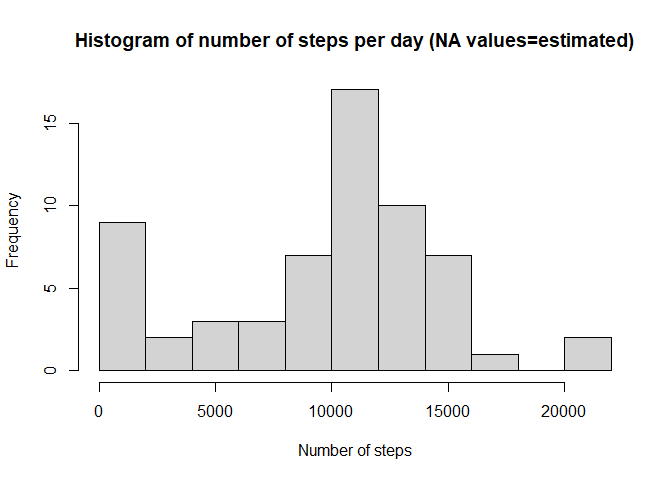
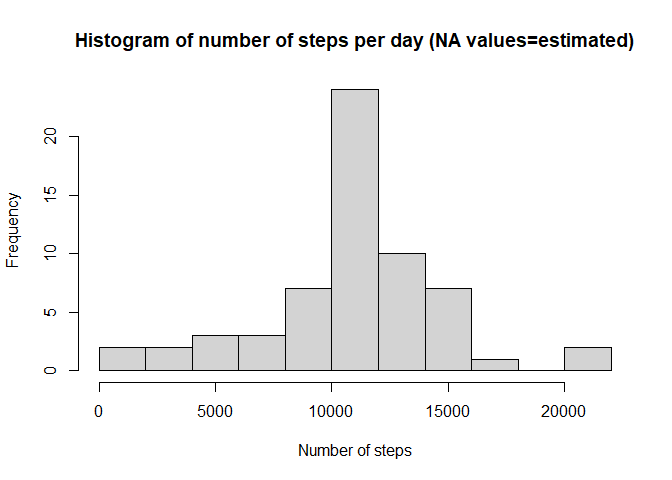
Final commit

diff --git a/PA1_template.html b/PA1_template.html
@@ -423,7 +423,7 @@ summary {
 </div>
 <div id="imputing-missing-values" class="section level2">
 <h2>Imputing missing values</h2>
-<p>Note that there are a number of days/intervals where there are missing values (coded as <strong>NA</strong>. The presence of missing days may introduce bias into some calculations or summaries of the data. The following chunks of code provide the answer to the following instructions:</p>
+<p>Note that there are a number of days/intervals where there are missing values (coded as <strong>NA</strong>). The presence of missing days may introduce bias into some calculations or summaries of the data. The following chunks of code provide the answer to the following instructions:</p>
 <ol style="list-style-type: decimal">
 <li>Calculate and report the <em>total number of missing values</em> in the dataset (i.e. the total number of rows with NAs)</li>
 <li>Devise a <em>strategy</em> for filling in all of the missing values in the dataset.</li>
@@ -436,18 +436,19 @@ summary {
     # Filling in all of missing values with mean steps per interval computed before.
     data2&lt;-data
     data2$steps[is.na(data$steps)]&lt;-
-        summary2$stepsperinterval[summary2$interval==data$interval[is.na(data$steps)]]
+        trunc(summary2$stepsperinterval[match(data$interval[is.na(data$steps)],
+                                              summary2$interval)])
 
     # Summarize the steps per day
     Newsummary1 &lt;- data2 %&gt;% group_by(date) %&gt;% summarize(total=sum(steps,na.rm=TRUE))
     # Plot the resulting histogram
     hist(Newsummary1$total,main=&quot;Histogram of number of steps per day (NA values=estimated)&quot;,
          xlab=&quot;Number of steps&quot;,breaks=10)</code></pre>
[2 lines of base64/hex data omitted]
 <pre class="r"><code>        # Compute the mean and median
     mynewmean&lt;-mean(Newsummary1$total,na.rm=TRUE)
-    mynewmedian&lt;-as.integer(median(Newsummary1$total,na.rm=TRUE))</code></pre>
-<p>2304 missing values in dataset. The mean of the steps per day, estimating the NA values in the dataset as the mean number of steps corresponding to the corresponding 5-min interval in the day is 9530.7244046 and the median is 10439. They are slightly higher than the original values 9354.2295082 and 10395.</p>
+    mynewmedian&lt;-median(Newsummary1$total,na.rm=TRUE)</code></pre>
+<p>2304 missing values in dataset. The mean of the steps per day, estimating the NA values in the dataset as the truncated mean number of steps corresponding to the corresponding 5-min interval in the day is 1.07497710^{4} and the median is 1.064110^{4}. They are significantly higher than the original values 9354.2295082 and 10395, as more than two thousand records with values in the range of tens to hundreds of steps are newly introduced.</p>
 </div>
 <div id="are-there-differences-in-activity-patterns-between-weekdays-and-weekends" class="section level2">
 <h2>Are there differences in activity patterns between weekdays and weekends?</h2>
@@ -470,7 +471,7 @@ summary {
     library(lattice)
     xyplot(stepsperinterval ~ interval | isweekday, data=Newsummary2,
            layout=c(1,2),type=&quot;l&quot;,ylab=&quot;Number of steps&quot;)</code></pre>
[2 lines of base64/hex data omitted]
 <p>We can notice a different pattern between weekdays and weekends. The peak in weekdays seems to correspond to an habitual lunch break walk. Getting earlier on weekdays is also a trend.</p>
 <p>I hope you enjoyed the report!</p>
 </div>

diff --git a/PA1_template.md b/PA1_template.md
@@ -88,7 +88,7 @@ The 5-min interval with the maximum number of steps (in average), is number 835,
 
 ## Imputing missing values
 
-Note that there are a number of days/intervals where there are missing values (coded as **NA**. The presence of missing days may introduce bias into some calculations or summaries of the data. The following chunks of code provide the answer to the following instructions:
+Note that there are a number of days/intervals where there are missing values (coded as **NA**). The presence of missing days may introduce bias into some calculations or summaries of the data. The following chunks of code provide the answer to the following instructions:
 
 1. Calculate and report the *total number of missing values* in the dataset (i.e. the total number of rows with NAs)
 2. Devise a *strategy* for filling in all of the missing values in the dataset.
@@ -103,7 +103,8 @@ Note that there are a number of days/intervals where there are missing values (c
     # Filling in all of missing values with mean steps per interval computed before.
     data2<-data
     data2$steps[is.na(data$steps)]<-
-        summary2$stepsperinterval[summary2$interval==data$interval[is.na(data$steps)]]
+        trunc(summary2$stepsperinterval[match(data$interval[is.na(data$steps)],
+                                              summary2$interval)])
 
     # Summarize the steps per day
     Newsummary1 <- data2 %>% group_by(date) %>% summarize(total=sum(steps,na.rm=TRUE))
@@ -117,10 +118,10 @@ Note that there are a number of days/intervals where there are missing values (c
 ```r
         # Compute the mean and median
     mynewmean<-mean(Newsummary1$total,na.rm=TRUE)
-    mynewmedian<-as.integer(median(Newsummary1$total,na.rm=TRUE))
+    mynewmedian<-median(Newsummary1$total,na.rm=TRUE)
 ```
 
-2304 missing values in dataset. The mean of the steps per day, estimating the NA values in the dataset as the mean number of steps corresponding to the corresponding 5-min interval in the day is 9530.7244046 and the median is 10439. They are slightly higher than the original values 9354.2295082 and 10395.
+2304 missing values in dataset. The mean of the steps per day, estimating the NA values in the dataset as the truncated mean number of steps corresponding to the corresponding 5-min interval in the day is 1.074977\times 10^{4} and the median is 1.0641\times 10^{4}. They are significantly higher than the original values 9354.2295082 and 10395, as more than two thousand records with values in the range of tens to hundreds of steps are newly introduced. 
 
 ## Are there differences in activity patterns between weekdays and weekends?
 
